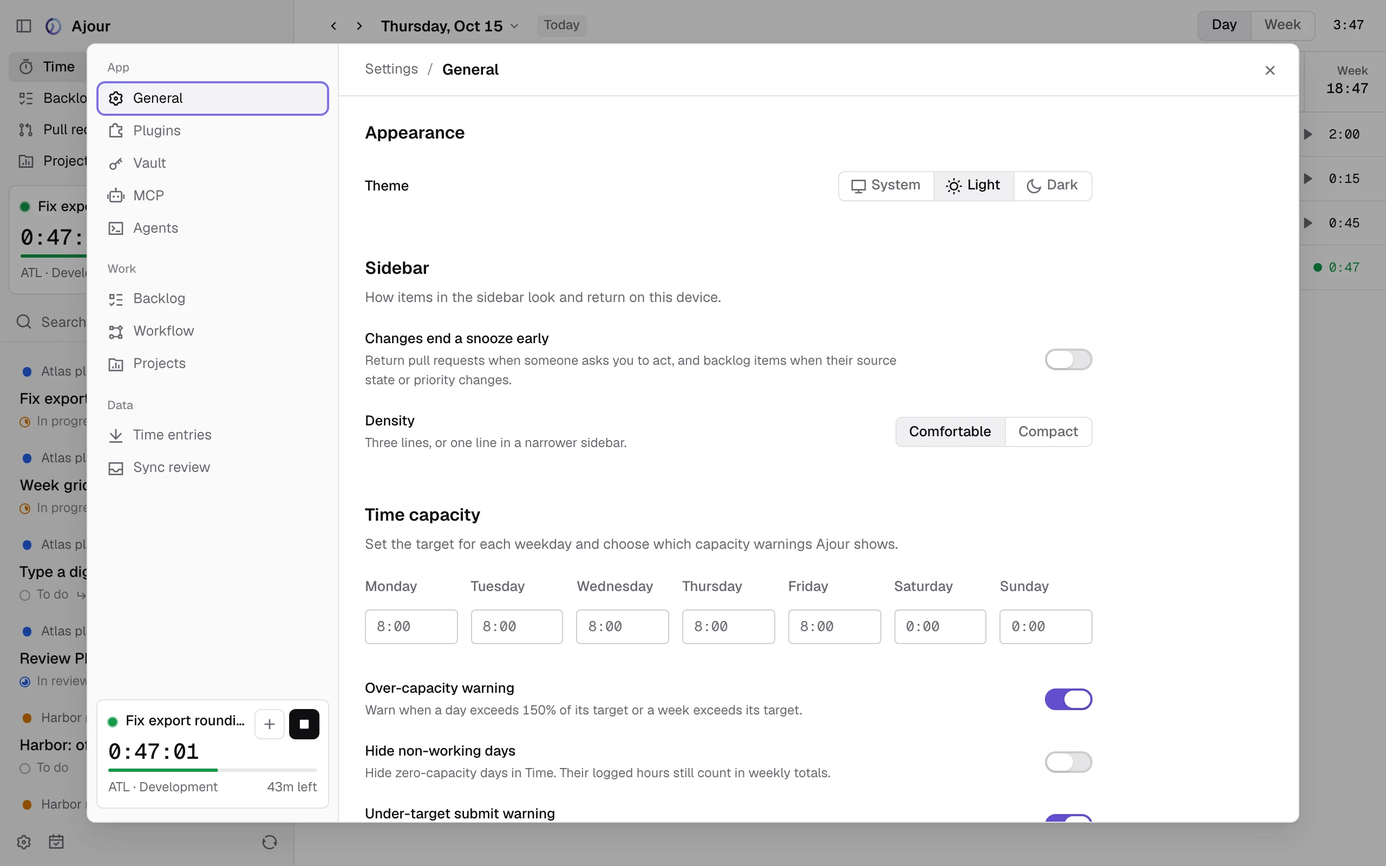
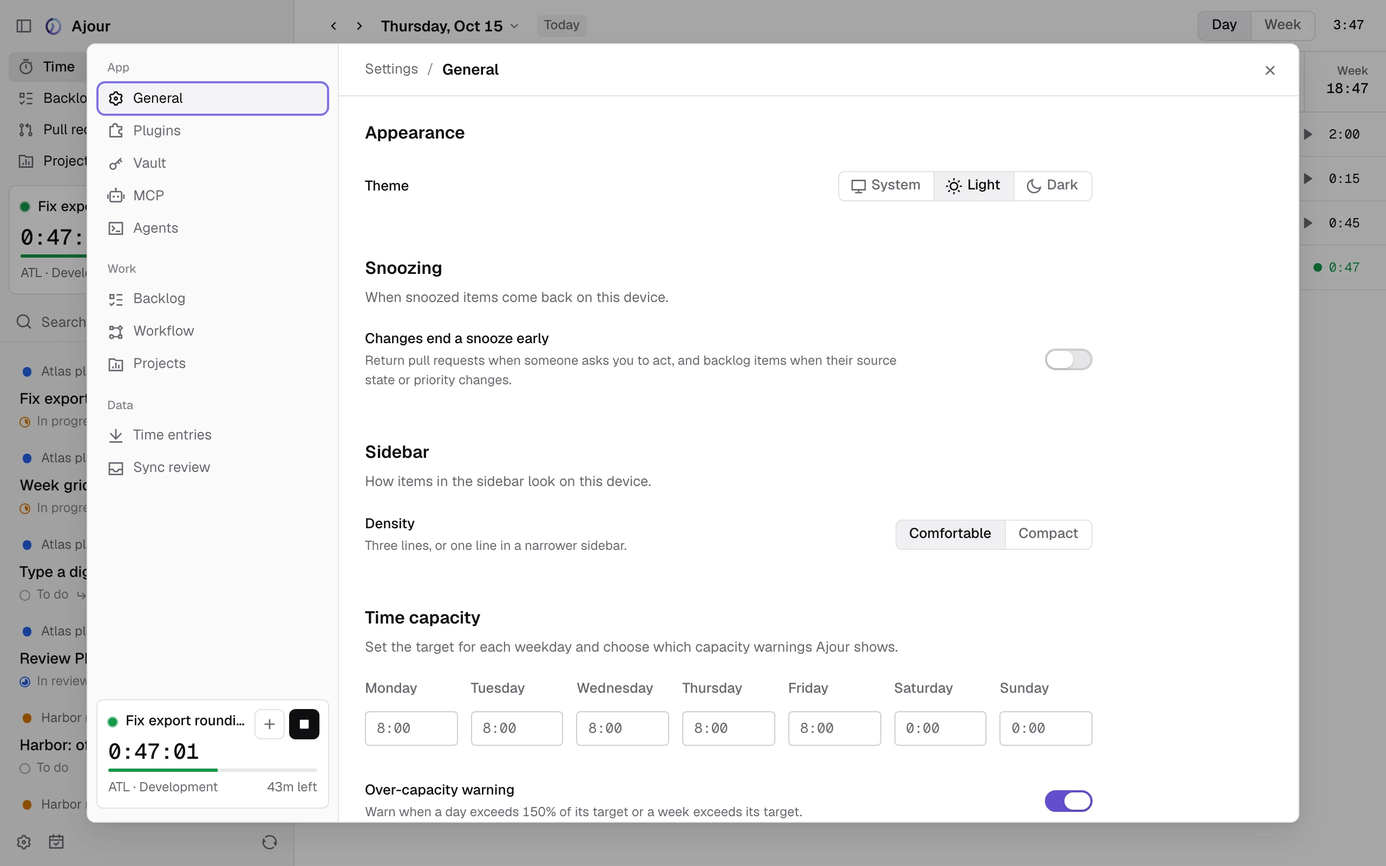
fix(composer): placeholders say what to type, times keep their format (#673)
* fix(composer): placeholders say what to type, italic and faint

Composer placeholders held values: "0:00" for an entry's hours, "0h" in
an estimate or budget, "ATL" for a project's code, "9:00" for Snooze's
custom time, and the task's own name for a task property that falls
back to it. Each read as a set value or a default.

They now say what to type: "Hours", "hours", "Add", "Time" and "Same
name". One rule in composer.css draws every composer placeholder, and
every empty chip that names its field, italic, at weight 300 and in the
tertiary color, as Settings does. The project picker marks its empty
label so its chip follows the rule.

* fix(composer): times keep their format as placeholder

Alex prefers 0:00, 0h and 9:00 over a word for a time: the format says
what to type. They stay italic, light and faint like every placeholder.

* fix(settings): no example value on number fields, hours show 0:00

#649 added a number field branch that still prefixed the plugin's
placeholder with "e.g.". The daily hours field shows its format, 0:00,
as the composers' hours do.

* docs: retake composer and settings shots after the rebase

* fix(placeholders): a time's placeholder stays upright

Alex: "0:00" already reads as empty, italics add nothing. Times keep
the faint color and light weight; words stay italic.

---------

diff --git a/apps/web/src/styles/composer.css b/apps/web/src/styles/composer.css
@@ -15,8 +15,18 @@
   outline: none;
 }
 
-.composer .composer-title::placeholder {
+/* A composer placeholder says what to type, never a value. Italic, light
+   and in the tertiary color, it stands apart from a value in the
+   foreground. An empty chip that names its field ("Project", "Priority",
+   "Assignee", "Pick a date") reads the same: it names the field, not "No
+   priority" (forms council round 19). Snooze's chips sit outside a
+   .composer, and CodeMirror's own theme needs the longer selector. */
+:is(.composer, .composer-chips) :is(input, textarea)::placeholder,
+.composer .composer-body .cm-placeholder,
+.composer-chips span[data-placeholder] {
   color: var(--text-tertiary);
+  font-style: italic;
+  font-weight: 300;
 }
 
 .composer .composer-title[aria-invalid="true"]::placeholder {
@@ -32,10 +42,6 @@
 
 .composer .composer-body:focus-within {
   box-shadow: none;
-}
-
-.composer .composer-body .cm-placeholder {
-  color: var(--text-tertiary);
 }
 
 .composer-chips {
@@ -106,10 +112,6 @@
   color: var(--foreground);
 }
 
-.composer-chips .composer-pill [data-placeholder] {
-  color: var(--muted-foreground);
-}
-
 .composer-chips .searchable-select-leading {
   padding-inline-start: 9px;
   color: var(--muted-foreground);
@@ -144,10 +146,6 @@
   font-weight: 500;
 }
 
-.composer-chips .searchable-select-input::placeholder {
-  color: var(--muted-foreground);
-}
-
 .composer-chips .composer-estimate {
   display: inline-flex;
   align-items: center;
@@ -174,10 +172,6 @@
   outline: none;
 }
 
-.composer-chips .composer-estimate-input::placeholder {
-  color: var(--text-tertiary);
-}
-
 .composer .composer-subtitle {
   width: 100%;
   border: 0;
@@ -187,10 +181,6 @@
   font-size: 14px;
   line-height: 1.5;
   outline: none;
-}
-
-.composer .composer-subtitle::placeholder {
-  color: var(--text-tertiary);
 }
 
 .composer-chips .composer-color {
@@ -216,6 +206,14 @@
   font-family: var(--font-mono);
 }
 
+/* A time's placeholder is its format, "0:00", "0h" or "9:00". As figures
+   it already reads as empty, so it stays upright, faint and light. */
+.composer .composer-hours::placeholder,
+.inline-figure .inline-figure-input::placeholder,
+.composer-chips .composer-time-input::placeholder {
+  font-style: normal;
+}
+
 .composer textarea.composer-note {
   width: 100%;
   min-height: 1lh;
@@ -225,10 +223,6 @@
   font-size: 14px;
   line-height: 1.5;
   outline: none;
-}
-
-.composer textarea.composer-note::placeholder {
-  color: var(--text-tertiary);
 }
 
 /* The task picker and the date as chips. */
@@ -420,7 +414,7 @@
   padding-inline-end: 10px;
 }
 
-/* A project's code keeps room for its placeholder, such as "ATL": an empty
+/* A project's code keeps room for its placeholder, "Add": an empty
    estimate collapses to its label, but an empty code read as no field at
    all (usability council U1). */
 .composer-chips
@@ -486,10 +480,6 @@
 .inline-figure-input:focus-visible {
   border-bottom: 1px solid var(--ring);
   background: oklch(from var(--foreground) l c h / 8%);
-}
-
-.inline-figure-input::placeholder {
-  color: var(--text-tertiary);
 }
 
 .inline-figure[data-invalid="true"] .inline-figure-input {
@@ -644,11 +634,4 @@
     min-width: 32px;
     min-height: 32px;
   }
-}
-
-/* An empty select chip names its field in muted text, as an empty Project
-   or State chip does: "Priority", not "No priority" (forms council round
-   19). */
-.composer-chips [data-slot="select-trigger"] [data-placeholder] {
-  color: var(--muted-foreground);
 }

diff --git a/apps/web/src/features/projects/task-property-fields.tsx b/apps/web/src/features/projects/task-property-fields.tsx
@@ -288,7 +288,9 @@ export function TaskPropertyFields({
                     value={picked}
                     options={taskNameOptions(otherTaskNames, picked)}
                     onChange={set}
-                    placeholder={defaultValue || "None"}
+                    // The task's own name is a value; "Same name" says where an
+                    // empty field comes from, as the clear option does.
+                    placeholder="Same name"
                     clearLabel={`Same name${defaultValue ? `: ${defaultValue}` : ""}`}
                     emptyMessage="No matching tasks"
                     ariaLabel={field.label}
@@ -298,7 +300,7 @@ export function TaskPropertyFields({
                     id={id}
                     value={picked}
                     maxLength={PLUGIN_PROPERTY_MAX_LENGTH}
-                    placeholder={defaultValue || "None"}
+                    placeholder="None"
                     onChange={(event) => set(event.target.value)}
                   />
                 )}

diff --git a/apps/web/src/features/settings/settings-general-page.tsx b/apps/web/src/features/settings/settings-general-page.tsx
@@ -110,9 +110,10 @@ function CapacityInput({
       <FieldLabel htmlFor={id}>{label}</FieldLabel>
       <Input
         id={id}
-        className="font-mono"
+        className="settings-time-input font-mono"
         value={draft}
-        placeholder="Hours"
+        // The format to type, as every hours field shows it.
+        placeholder="0:00"
         // A text keyboard: a numeric keypad has no ":" or "h" for "7:30" or "7h30".
         inputMode="text"
         autoComplete="off"

diff --git a/apps/web/src/features/settings/plugin-settings-ui.tsx b/apps/web/src/features/settings/plugin-settings-ui.tsx
@@ -78,9 +78,8 @@ function PluginFieldInput({
               value={value}
               onChange={onChange}
               className="inline-field"
-              placeholder={
-                field.placeholder ? `e.g. ${field.placeholder}` : "Not set"
-              }
+              // As a text field: the plugin's placeholder as is, never "e.g.".
+              placeholder={field.placeholder ?? "Not set"}
             />
           ) : (
             <Input

diff --git a/apps/web/src/features/projects/project-form-dialog.tsx b/apps/web/src/features/projects/project-form-dialog.tsx
@@ -222,7 +222,7 @@ export function ProjectFormDialog({
                   id="project-form-code"
                   className="composer-estimate-input composer-code-input"
                   autoComplete="off"
-                  placeholder="ATL"
+                  placeholder="Add"
                   readOnly={sourceOwned}
                   aria-describedby={sourceOwned ? `${lockId}-code` : undefined}
                   value={fields.code}

diff --git a/apps/web/src/features/backlog/snooze-picker.tsx b/apps/web/src/features/backlog/snooze-picker.tsx
@@ -232,7 +232,7 @@ export function SnoozePickerHost() {
               <input
                 id="snooze-custom-time"
                 aria-label="Custom time"
-                className="composer-estimate-input"
+                className="composer-estimate-input composer-time-input"
                 inputMode="numeric"
                 autoComplete="off"
                 placeholder="9:00"

diff --git a/apps/web/src/features/projects/project-task-picker.tsx b/apps/web/src/features/projects/project-task-picker.tsx
@@ -424,6 +424,8 @@ export function ProjectTaskPicker({
           />
         )}
         <span
+          // Empty, a composer chip draws it as a placeholder (composer.css).
+          data-placeholder={selectedProject ? undefined : ""}
           className={cn(
             "min-w-0 flex-1 truncate",
             !selectedProject && "text-[var(--text-tertiary)]",

diff --git a/apps/web/src/components/ui/inline-figures.tsx b/apps/web/src/components/ui/inline-figures.tsx
@@ -39,6 +39,7 @@ function InlineFigure({
   /** The number as figures show it, or null to show the typed text. */
   format?: (value: string) => string | null;
   invalid?: boolean;
+  /** Shown while empty: the format to type, as "0h". */
   placeholder?: string;
   /** A control after the word, such as a reset. */
   trailing?: ReactNode;

diff --git a/apps/web/src/styles/settings.css b/apps/web/src/styles/settings.css
@@ -268,6 +268,12 @@
   font-weight: 300;
 }
 
+/* A time's placeholder is its format, "0:00": as figures it already reads
+   as empty, so it stays upright. */
+.settings-content .settings-time-input::placeholder {
+  font-style: normal;
+}
+
 @media (max-width: 1600px) {
   .settings-layout {
     display: flex;

diff --git a/docs/agents/ui-registry.md b/docs/agents/ui-registry.md
@@ -58,7 +58,7 @@ The redesign direction decided on 2026-10-14: Linear's density and structure, Ve
 - Field labels (`FieldLabel`) are 13px medium in the secondary color, quieter than the values they name; a checkbox's title (`FieldTitle`) stays in the foreground, since it carries the setting's meaning. A connection form's section heading is 14px semibold foreground, above its labels (forms council round 5).
 - A synced item's Priority and State pickers list the synced value first, under "Synced", instead of Reset buttons under the fields. The Settle dialog asks "Also settle its N open subitems" as a checkbox in its own form, listing them; the standalone question is left for closes outside it. A new time entry's button says Create entry. On the Time page, a click on the dock's running entry opens the side panel, as its row does (forms council round 5).
 - Side-panel editors share one anatomy (forms council round 6): a 16px semibold title and one muted line, the writing stacked (a backlog item's name and description, capped at 14rem and scrolling inside), then the properties as `PropertyList` label-left rows (Priority, with its icon and name, Workflow state, Project, Task mapping), as the time entry editor's Task, Hours and Date. A new time entry's Start or Switch sits in the footer between Cancel and Create entry, and its hint names the same verb; an existing entry keeps Continue or Stop at the top. A connection form's title is 16px semibold, above its 14px section headings; an edited connection has no subtitle. Calendars inside dialogs sit on the dialog's surface, and the project and task picker uses `--shadow-popup` on the popover surface. The Plugins list marks only what is not installed (Available, Coming soon, Deprecated, Unavailable). Workflow's unmapped source states read "Not mapped".
-- Editing forms are composers, as Linear's new issue (forms council round 6, `styles/composer.css`): a borderless 18px title (`composer-title`), a borderless description or note (`composer-body`), then the properties as pill chips (`composer-chips`): 28px, fully rounded, a 3% tint and a hairline that darkens on hover, showing the value or naming the property while empty, with no chevron. A value typed in place sits inside its chip after a muted label ("Code ATL", Snooze's "At 9:00"); a checkbox is a chip that toggles. Times are not chips: since forms council round 13 they are one sentence under the title, "5h remaining · 3h completed · 8h estimated" or "120h budget · 0h adjustment" (`InlineFigure` and `InlineFigures` in `components/ui/inline-figures.tsx`). Each number is a mono input with a dashed underline, as a link has, that tints on hover and underlines in the ring color on focus; the word after it is its label. At rest it reads as figures do ("8h", "2h30"), focused it shows what was typed, and an empty one shows a faint "0h". An existing backlog item opens on its ticket line, without the "Edit backlog item" kicker, which stays for assistive tech. An edit composer with a page to open has an expand button, "Open as page", beside its ⋯ and ×, and cuts a long description (over six lines or 480 characters) to its first lines with a fade; typing in it lifts the cut. New project's icon is a 44px avatar beside the name and short name, tinted in the project's color, with a pencil badge, opening the icon picker. Labels stay for assistive tech as `sr-only`. Since forms council round 7 every chip shares one rule: filled with the foreground at 7%, no border at rest, the field border and 10% on hover, the ring on focus, no transition; it leads with its value's mark (priority bars, state ring, project icon) or, empty, the property's icon (`OptionSelect iconLabel`, `SearchableSelect` option `icon` and `placeholderIcon`). A composer that writes a record (backlog item, subitem, time entry, task, Create task, project) shows no header line since forms council round 15: its title stays only for assistive tech, naming the dialog, and the field the user writes opens it. The time entry editor in the Time page's side panel is the exception: a docked panel is a column, not a card, so it opens on the peek's row with its title, status, "…" and ×. The action dialogs (Settle, Snooze, Assign shortcut, Move entry) keep a 13px secondary kicker (`composer-kicker`) naming the action. The Task chip waits for a project; A backlog item's project and task are one pill of two segments, "Atlas platform / Development", so the task reads as the project's; a task's Shortcut and Settle's subitem question are chips in their rows; the color chip shows its swatch and "Color"; pickers name a project without its code. Create task, Settle (State and Priority chips, then the Assignee chip for a plugin that assigns, "Add a comment…") and Snooze's custom time are composers too. `PersonCombobox chip` shows the person's initials and name, or the person icon and a muted "Assignee"; an empty Priority chip names its field in muted text (`OptionSelect emptyNamesField`), as an empty State or Project chip does (forms council round 19). The Settings window opens with focus on the open page's row, so only one row reads as selected. A time entry's footer has one main button that follows the draft (Start, Create entry, Continue, Start today or Save, from `getTimeEntryPrimaryAction`), with Stop before Cancel on the running entry, and only its status sits above the hours. The backlog item editor, the New project dialog, the project task editor and every time entry editor (the hours as the title, in mono) use it. Settings pages keep their rows. At phone width (forms council round 17): every dialog and alert dialog ends in one row of buttons at the right, as the composers do, never a stack of full-width buttons; the Move and Duplicate dialog is 20rem wide, capped to the window; a meeting suggestion on the Time page takes two lines (time, title and duration, then project, Add, × and ⋯) and nothing scrolls that page sideways; the backlog item page puts its actions under the title, drops the breadcrumb row the back link repeats, and wraps Logged in Ajour under the estimates. On a coarse pointer, chips, inline times, the composers' corner buttons, dialog close buttons, comment actions and a meeting's ⋯ are 32px targets; on a screen without hover, a connection field rests on a hairline.
+- Editing forms are composers, as Linear's new issue (forms council round 6, `styles/composer.css`): a borderless 18px title (`composer-title`), a borderless description or note (`composer-body`), then the properties as pill chips (`composer-chips`): 28px, fully rounded, a 3% tint and a hairline that darkens on hover, showing the value or naming the property while empty, with no chevron. A value typed in place sits inside its chip after a muted label ("Code ATL", Snooze's "At 9:00"); a checkbox is a chip that toggles. Times are not chips: since forms council round 13 they are one sentence under the title, "5h remaining · 3h completed · 8h estimated" or "120h budget · 0h adjustment" (`InlineFigure` and `InlineFigures` in `components/ui/inline-figures.tsx`). Each number is a mono input with a dashed underline, as a link has, that tints on hover and underlines in the ring color on focus; the word after it is its label. At rest it reads as figures do ("8h", "2h30"), focused it shows what was typed, and an empty one shows a faint "0h". An existing backlog item opens on its ticket line, without the "Edit backlog item" kicker, which stays for assistive tech. An edit composer with a page to open has an expand button, "Open as page", beside its ⋯ and ×, and cuts a long description (over six lines or 480 characters) to its first lines with a fade; typing in it lifts the cut. New project's icon is a 44px avatar beside the name and short name, tinted in the project's color, with a pencil badge, opening the icon picker. Labels stay for assistive tech as `sr-only`. Since forms council round 7 every chip shares one rule: filled with the foreground at 7%, no border at rest, the field border and 10% on hover, the ring on focus, no transition; it leads with its value's mark (priority bars, state ring, project icon) or, empty, the property's icon (`OptionSelect iconLabel`, `SearchableSelect` option `icon` and `placeholderIcon`). A composer that writes a record (backlog item, subitem, time entry, task, Create task, project) shows no header line since forms council round 15: its title stays only for assistive tech, naming the dialog, and the field the user writes opens it. The time entry editor in the Time page's side panel is the exception: a docked panel is a column, not a card, so it opens on the peek's row with its title, status, "…" and ×. The action dialogs (Settle, Snooze, Assign shortcut, Move entry) keep a 13px secondary kicker (`composer-kicker`) naming the action. The Task chip waits for a project; A backlog item's project and task are one pill of two segments, "Atlas platform / Development", so the task reads as the project's; a task's Shortcut and Settle's subitem question are chips in their rows; the color chip shows its swatch and "Color"; pickers name a project without its code. Create task, Settle (State and Priority chips, then the Assignee chip for a plugin that assigns, "Add a comment…") and Snooze's custom time are composers too. `PersonCombobox chip` shows the person's initials and name, or the person icon and a faint, italic "Assignee"; an empty Priority chip names its field in faint italics (`OptionSelect emptyNamesField`), as an empty State or Project chip does (forms council round 19). The Settings window opens with focus on the open page's row, so only one row reads as selected. A time entry's footer has one main button that follows the draft (Start, Create entry, Continue, Start today or Save, from `getTimeEntryPrimaryAction`), with Stop before Cancel on the running entry, and only its status sits above the hours. The backlog item editor, the New project dialog, the project task editor and every time entry editor (the hours as the title, in mono) use it. Settings pages keep their rows. At phone width (forms council round 17): every dialog and alert dialog ends in one row of buttons at the right, as the composers do, never a stack of full-width buttons; the Move and Duplicate dialog is 20rem wide, capped to the window; a meeting suggestion on the Time page takes two lines (time, title and duration, then project, Add, × and ⋯) and nothing scrolls that page sideways; the backlog item page puts its actions under the title, drops the breadcrumb row the back link repeats, and wraps Logged in Ajour under the estimates. On a coarse pointer, chips, inline times, the composers' corner buttons, dialog close buttons, comment actions and a meeting's ⋯ are 32px targets; on a screen without hover, a connection field rests on a hairline.
 - Forms council round 8: forms leave the side panel. The backlog item editor, the task editor and the project form open as a modal `Dialog`, centered in the window over its backdrop at every width; the narrow view spans it across the window. The floating card at the top right that rounds 8 to 12 used went away: it sat in a different place for each row. The peek and the Week cell list stay side panels. Toggle chips (`ToggleChip`, `components/ui/toggle-chip.tsx`) are the checkbox themselves: a check when on, the property's icon when off. A connection form renders its fields as settings rows (`PluginFieldInput row`, `.connection-row`): label left, value right reading as text, its field drawn on hover and focus, grouped values as chips. Backlog rows select on click (Cmd/Ctrl toggles, Shift ranges, `selectEntryOnClick`), open on double click, and a selection's right-click menu runs the shared actions on each.
 - Forms council round 9: a connection's secret and its reminder date are rows too ("Personal Access Token | Saved · Last used · Replace · Remove", "Expires on | date"); an empty row value shows the plugin's placeholder or "Not set"; a yes-or-no field is a `Switch`. Composer dates are chips in words (`DateField chip`: "Today", "Thu, Oct 15", "Pick a date"), the typed date inside the calendar's popover. Hours read "0:45", unpadded, everywhere. An empty project picker leads with the folder and says "Project". Settle's state chip says "State · Active" (`OptionSelect prefix`). Settle, Snooze and Move take the composer header: the verb as a kicker, the subject in 15px semibold. Borderless writing tints on hover and focus.
 - Forms council round 10: a focused writing field shows its caret and nothing else (hover alone tints). A new backlog item shows one "Estimate" chip (the original); Remaining and Completed show once it exists. Estimate-style chips mute their label and show their value in the foreground, and an empty one reads as its muted label alone. A connection's reminder date is a date chip, and a new connection's secret input reads as a row value. Select rows show a faint arrow at rest. Move names the entry it moves; Assign shortcut takes the composer header with Clear shortcut as a ghost on the left.

diff --git a/docs/agents/ux-spec.md b/docs/agents/ux-spec.md
@@ -219,6 +219,7 @@ Today's splits at 640px and 1023px go away.
 - A page scrolls in one place, and that scroll stops at the end of its content: the titlebar and the bottom row stay where they are, and a wheel or swipe past the end moves nothing else (usability testing, 2026-11-06).
 - The backlog item page puts its actions under the title, indented to the title's text, and wraps them so Settle stays inside the window, down to 320px.
 - Editing an entry uses the full-width entry dialog. Its behavior comes from [One entry editor for Day and Week](https://github.com/les-cabochons/ajour/issues/14).
+- A placeholder in a composer says what to type, never a value or a default: "Add" for a project's code, "Same name" for a task property that falls back to the task's name. A time shows its format instead: "0:00" for an entry's hours, "0h" in an estimate, budget or adjustment, "9:00" for Snooze's custom time. Every placeholder is light and in the tertiary color, as in Settings, and so is an empty chip that names its field ("Project", "Priority", "Assignee"). Words are also italic; a time stays upright, since "0:00" already reads as empty.
 
 ## Entry editor
 
@@ -1047,7 +1048,7 @@ Decided in [Settings and Sync review under the new conventions](https://github.c
 
 - Pages keep their content, with sentence case and the labels from the Vocabulary section.
 - Results and errors of imports, exports and syncs show inline on their page, per the Feedback section.
-- A placeholder in Settings says what to type, such as "Name this connection" or "Paste your organization URL", in italics, light and in the tertiary color. It never holds a value, an example value or a default, so an empty field never reads as a saved one. A plugin's connection fields show the placeholder from its manifest as is, or "Not set" without one.
+- A placeholder in Settings says what to type, such as "Name this connection" or "Paste your organization URL", in italics, light and in the tertiary color. It never holds a value, an example value or a default, so an empty field never reads as a saved one. A time shows its format, "0:00", upright, as in the composers. A plugin's connection fields show the placeholder from its manifest as is, or "Not set" without one.
 - When the local app API is not running, as in the web build, Plugins shows one calm notice: "Plugins need the desktop app". Backlog and Sync review hide their plugin sections instead of showing red error banners.
 - When this computer can't run plugins in a sandbox, Plugins and each plugin page show the warning "Plugins are turned off: this computer can't run them in a sandbox", with the reason under it, such as "Ajour was started with --no-sandbox." or "Plugins run only on Windows and macOS." (decided in [#231](https://github.com/les-cabochons/ajour/issues/231), built in [#390](https://github.com/les-cabochons/ajour/issues/390)). No plugin runs, Ajour's own included, and every plugin shows as off with its activation switches disabled (a tooltip gives the same words), so automatic syncs pause; connections and synced data stay. A sync started anyway leaves the same words as its connection's last error. There is no override. Until the cut-over (#403) this happens only in development builds, which run plugin API 4 plugins in their sandbox.
 - A plugin API 4 plugin's page ends with an Advanced section (#391, decided in [#217](https://github.com/les-cabochons/ajour/issues/217)) that says "Start applies at once. A new Memory ceiling applies the next time the plugin starts." Start offers "Plugin's choice (…)", naming what the plugin declares, "Always ready" and "Load when needed", and saves on pick. Always ready starts the plugin with Ajour and keeps it running, using about 30 MB; Load when needed starts it at its first call and closes it 2 minutes after its last. Memory ceiling takes 64 to 2048 MB, saves on blur or Enter when it changed, and left empty uses the plugin's ceiling, which the description names (256 MB unless the plugin declares another), and its placeholder says "Plugin default". Any other value keeps what was typed and says "Enter a whole number of MB from 64 to 2048." under it, and nothing is saved. Above its ceiling, Ajour closes the plugin, and the call it was running fails saying its process went over its memory ceiling. Plugins of the older plugin API have no Advanced section.
